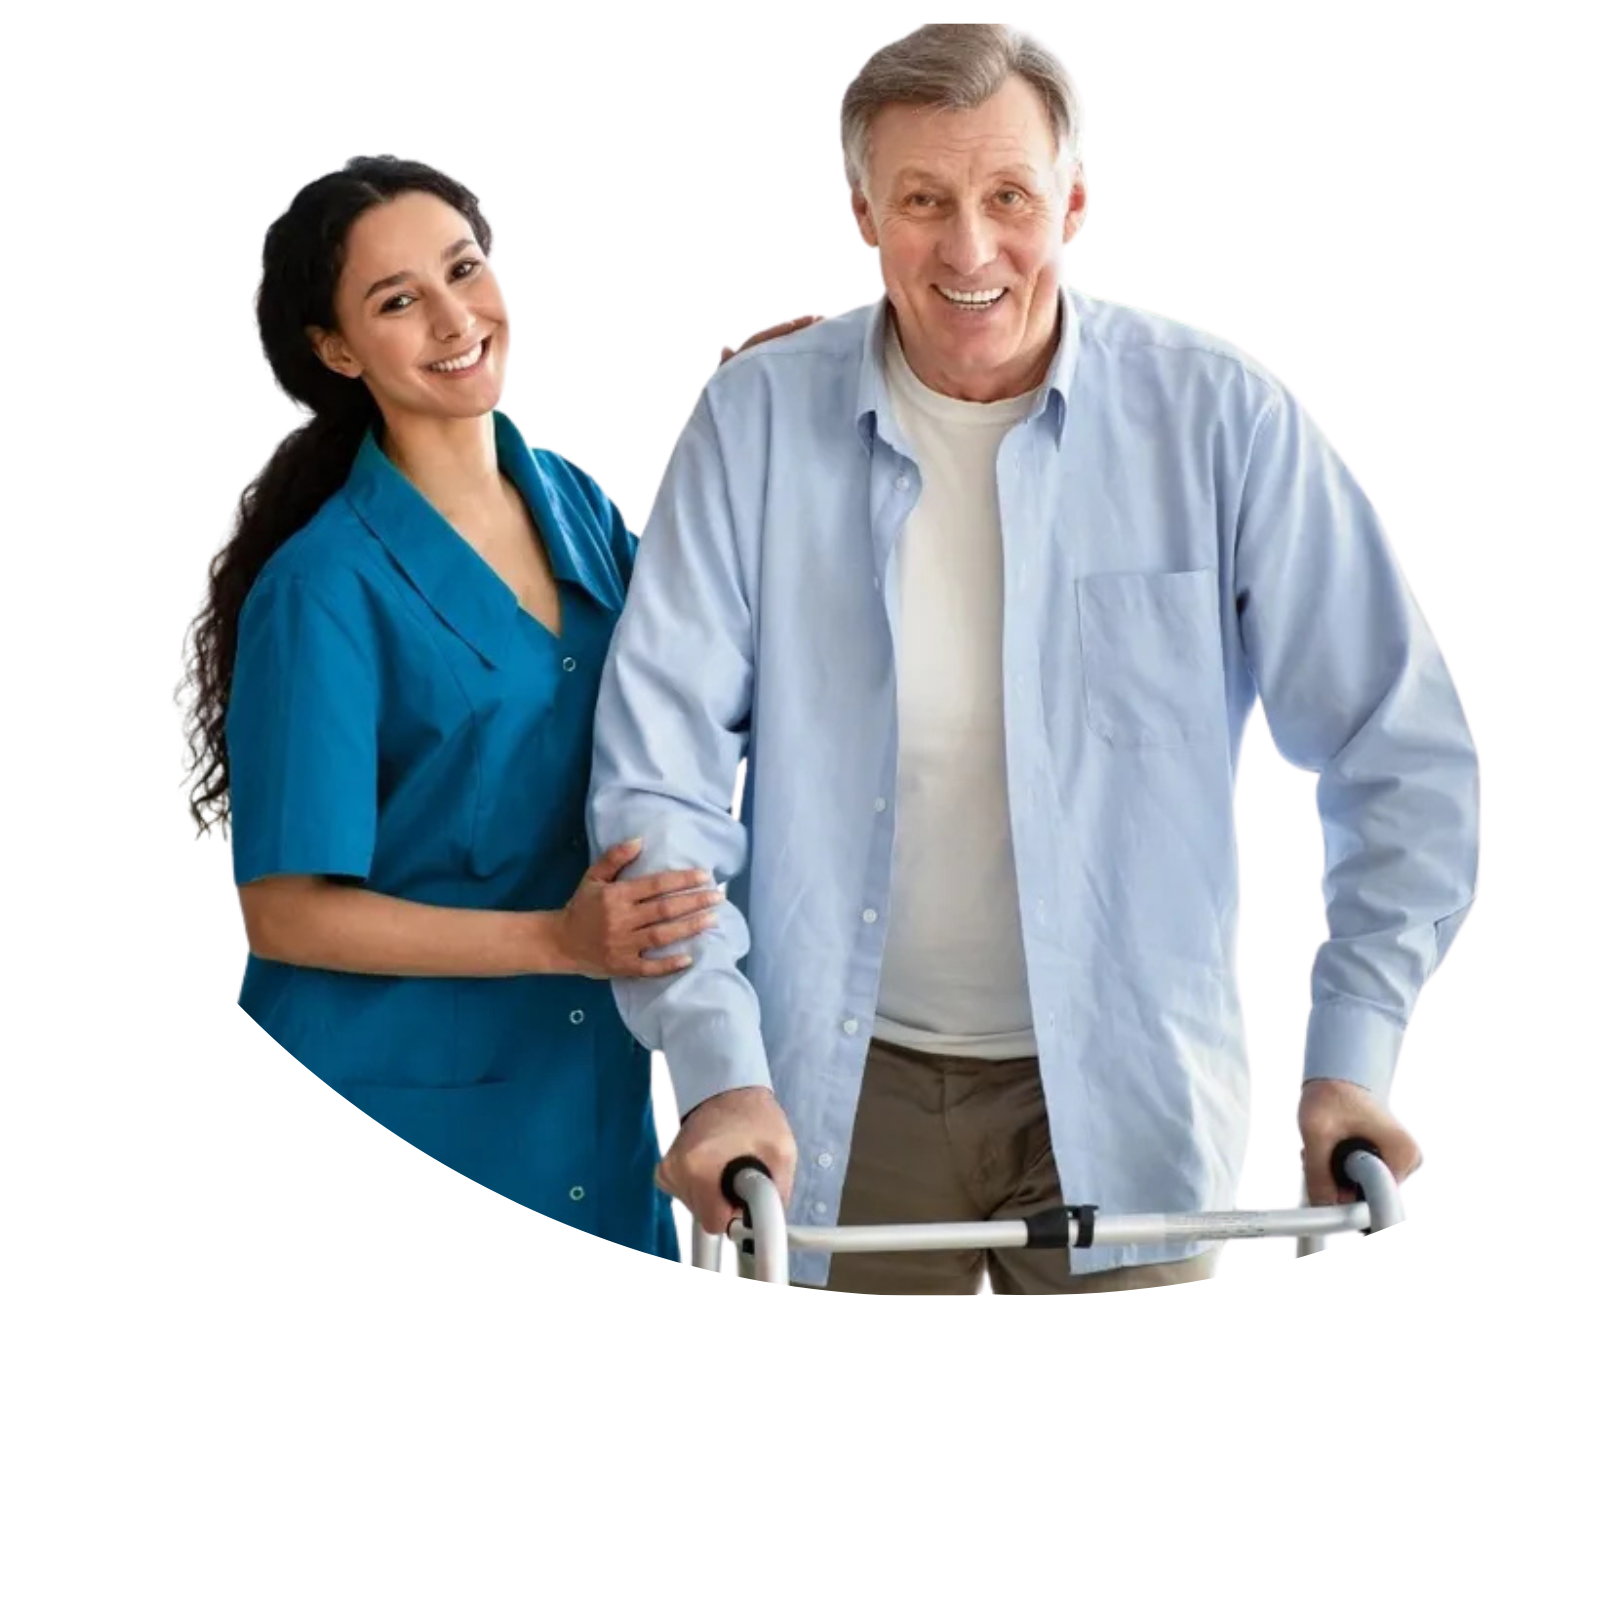
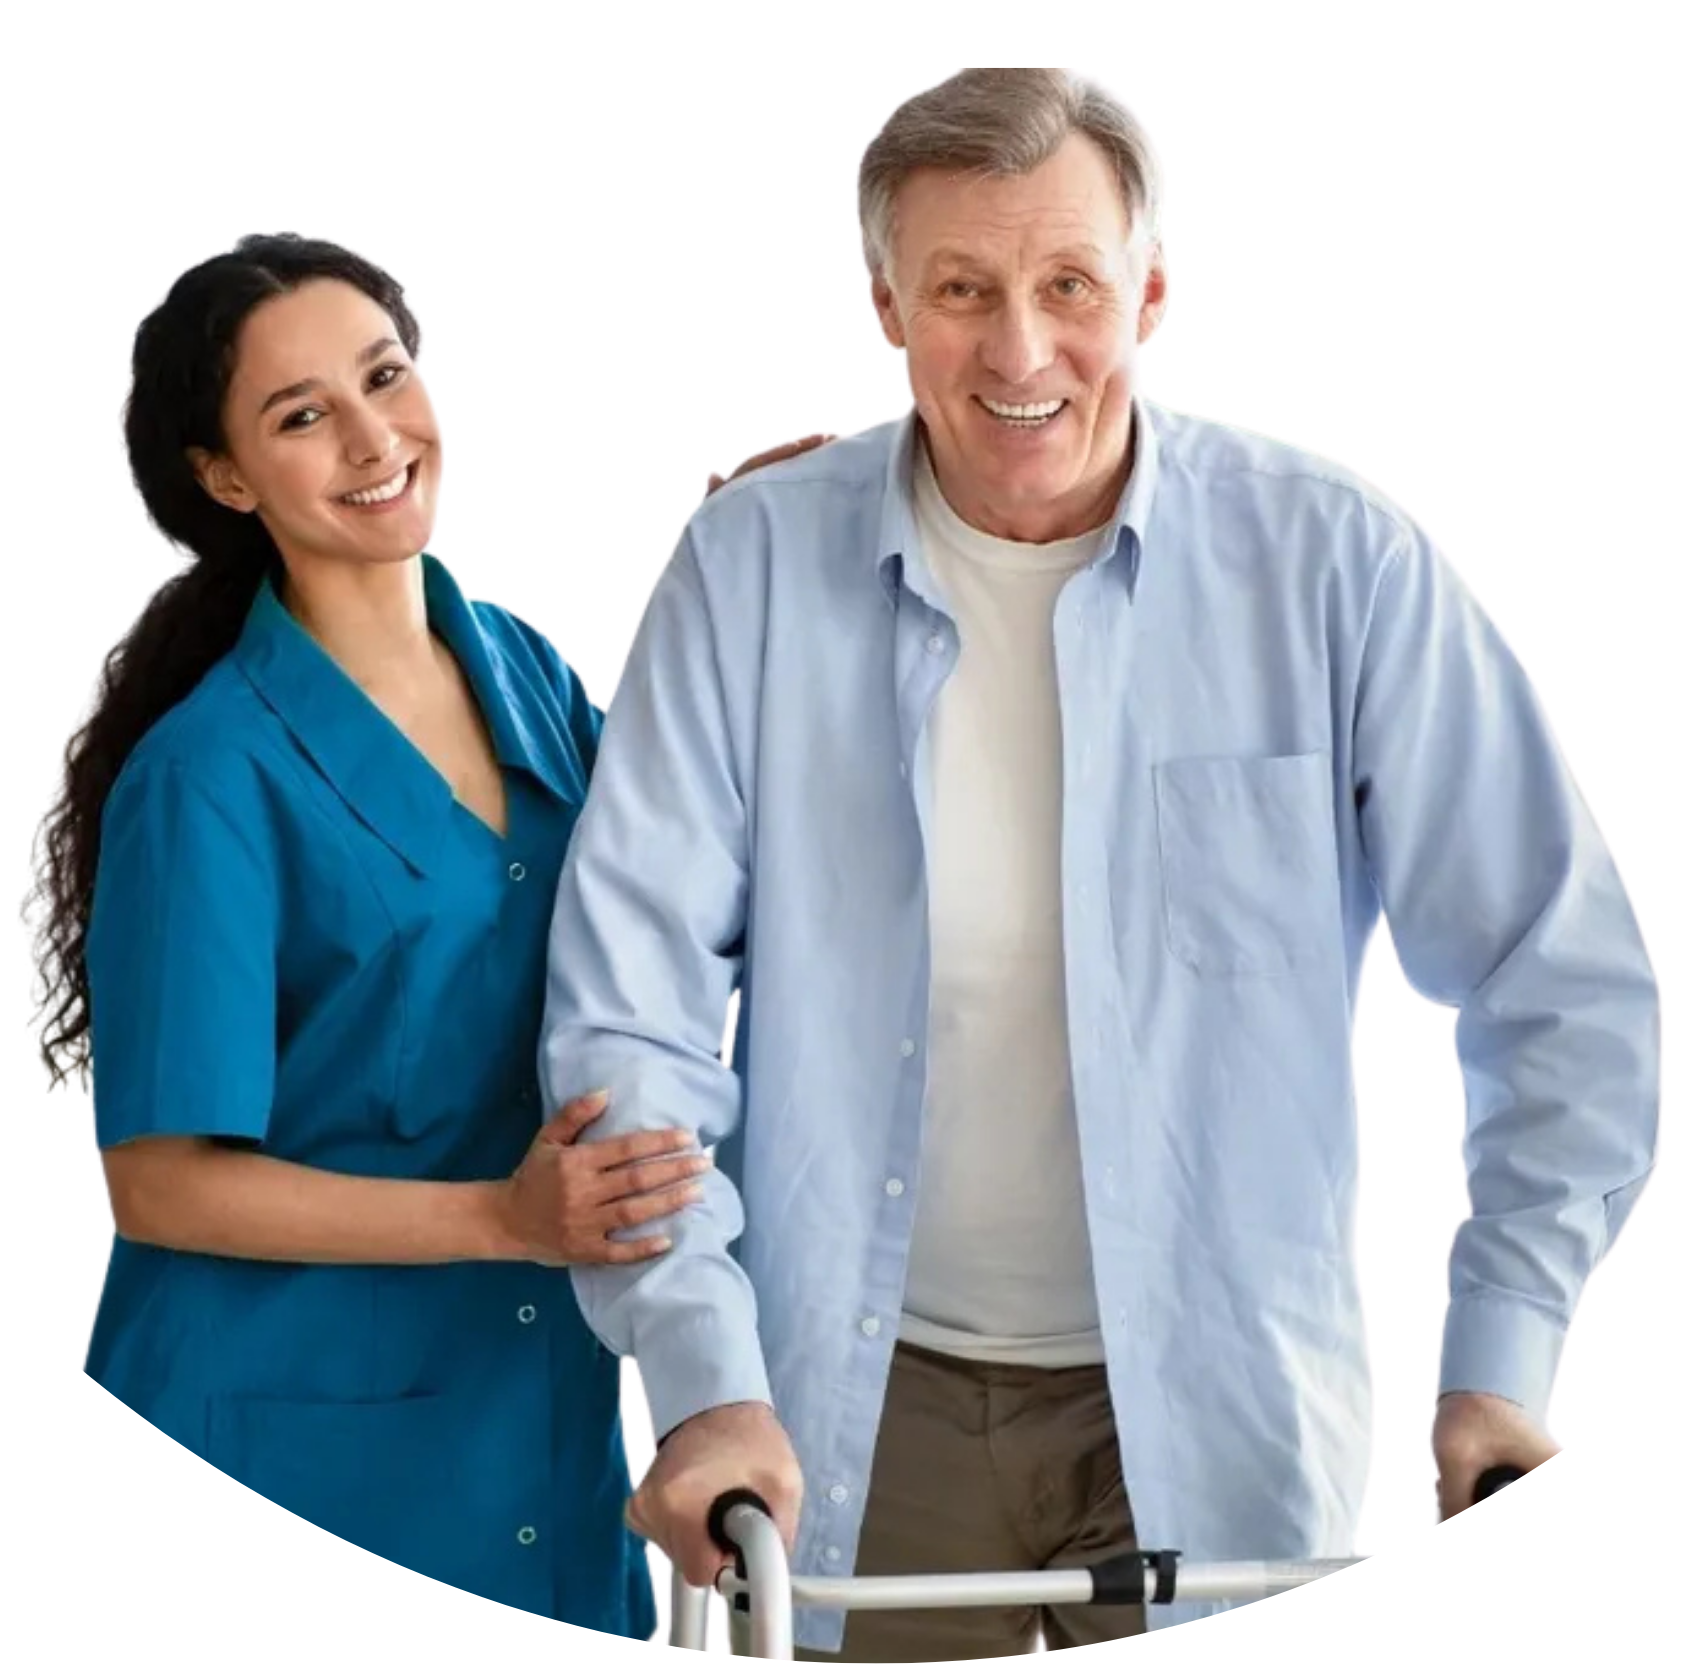
modif image call

diff --git a/style.css b/style.css
@@ -450,7 +450,6 @@ header h2 {
   flex-wrap: wrap;
   justify-content: space-between;
   align-items: center;
-  margin-top: 60px;
   gap: 40px;
 }
 
@@ -565,7 +564,6 @@ header h2 {
   flex-wrap: wrap;
   justify-content: space-between;
   align-items: flex-start;
-  margin-top: 60px;
   gap: 40px;
   flex-direction: row-reverse; /* pour mettre le texte à gauche, image à droite */
 }
